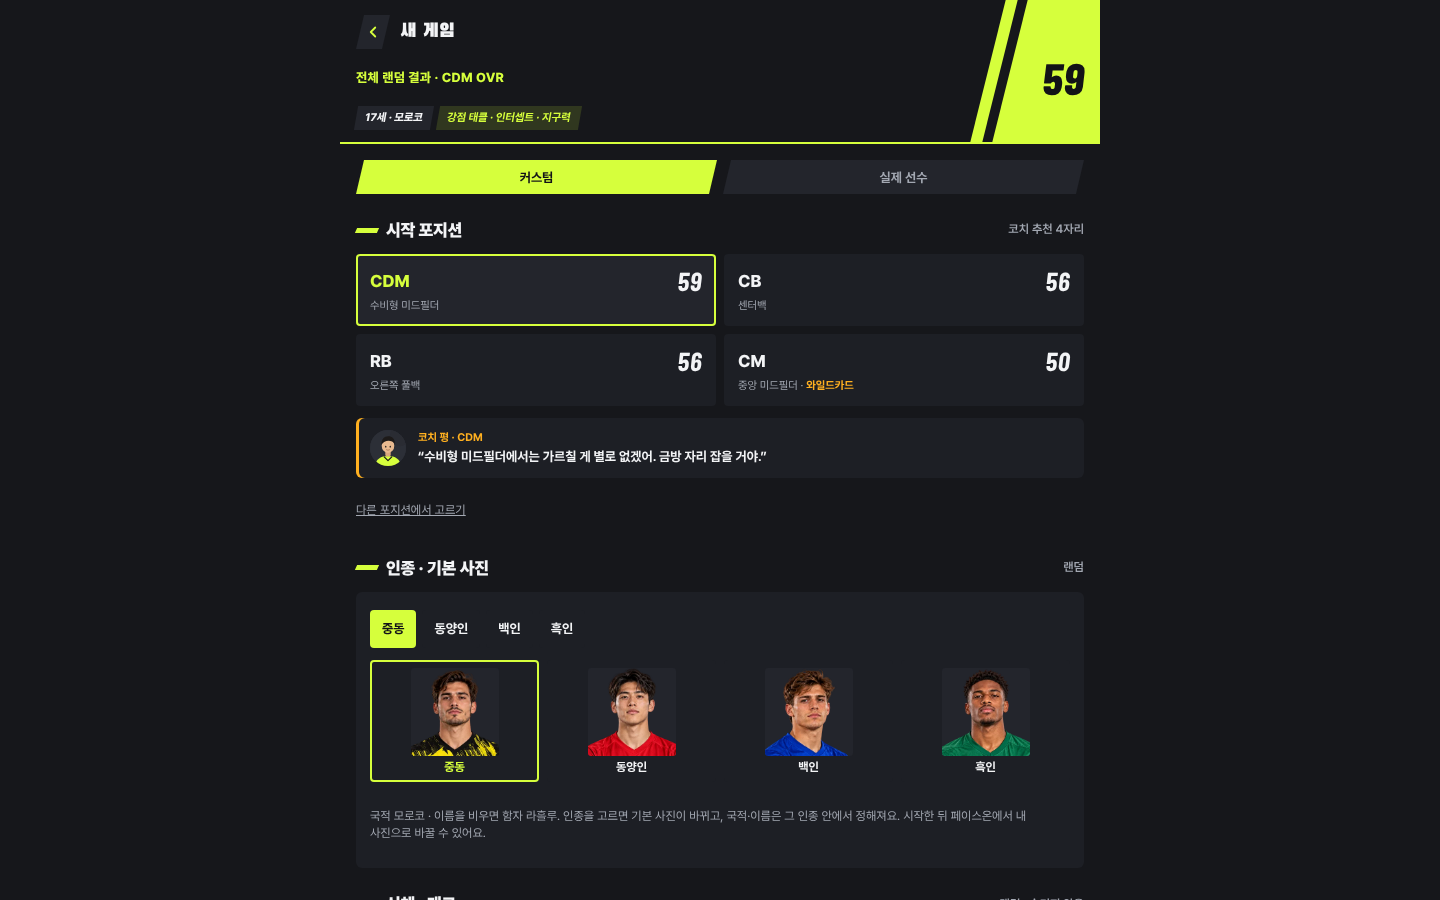
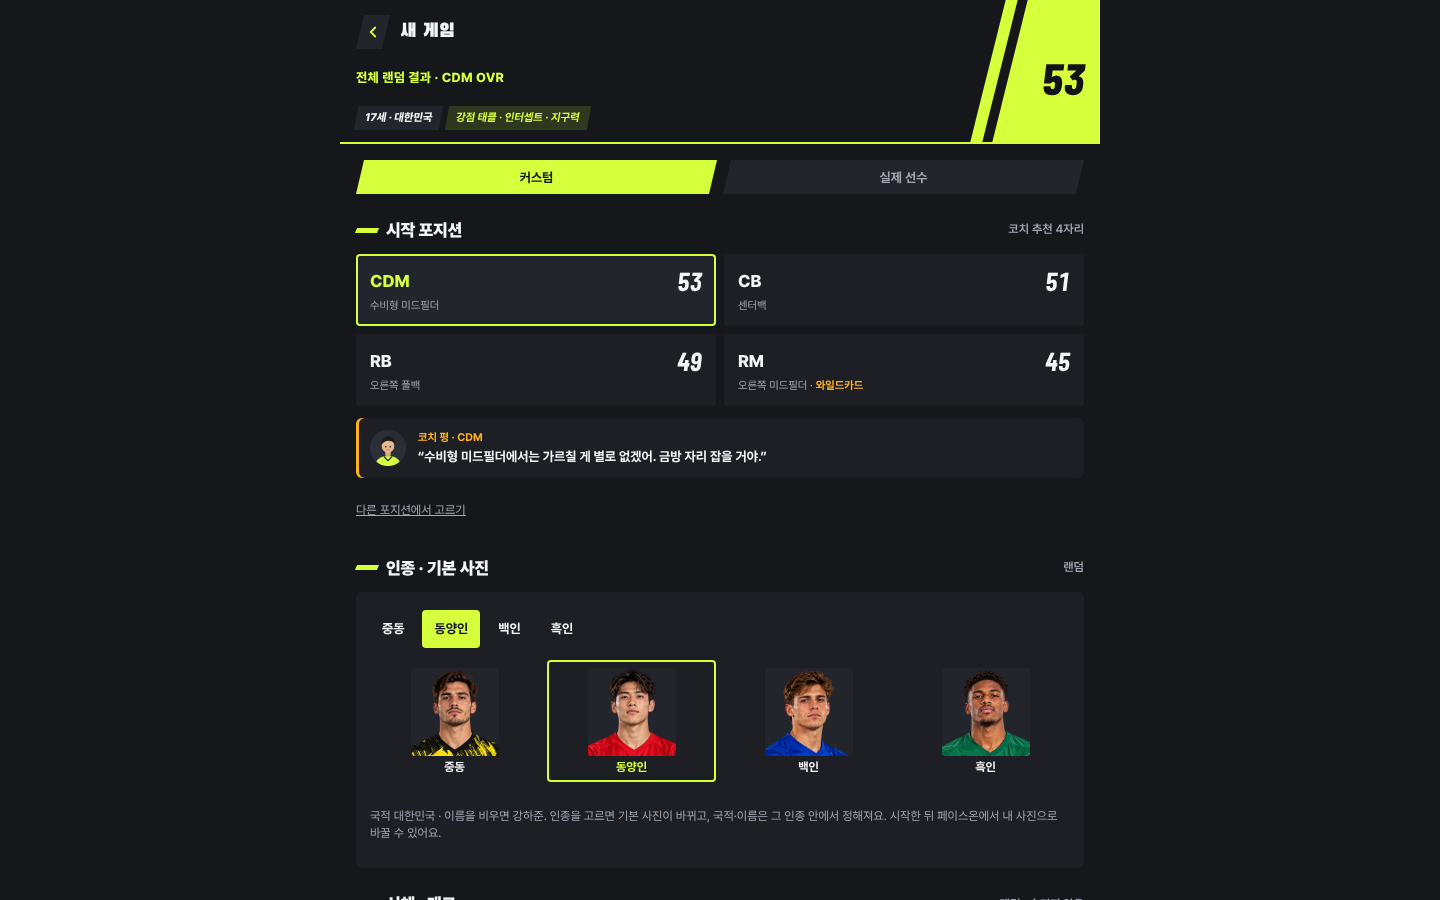
C.74d 랜덤은 커스텀 예산 안(사용자 00:41) · [이대로 시작] = 커스텀 rolled 시작(예전 랜덤과 같은 굴림)
Claude-Session: https://claude.ai/code/session_01JxvVPyQ11rXgiVVKZ8hKRc

diff --git a/src/ui/customRandom.ts b/src/ui/customRandom.ts
@@ -1,22 +1,22 @@
 // 커스텀 랜덤 (C.74d, 사용자 요청 2026-10-20): 시작 방식 [랜덤]을 커스텀 안으로 합친다.
 // [전체 랜덤] = 지금 랜덤 유망주 생성기(rollProspect · prospectExtras · rollIdentity)로 뽑은 결과 → [이대로 시작] / [편집하기] / [다시 돌리기].
-// [편집하기]와 [이 단계 랜덤]은 같은 생성기 결과를 커스텀 폼 값으로 옮긴다. 같은 key 면 늘 같은 결과
+// 결과는 늘 커스텀 예산 안(사용자 00:41). [편집하기]와 [이 단계 랜덤]은 같은 생성기 결과를 커스텀 폼 값으로 옮긴다. 같은 key 면 늘 같은 결과
 
 import { FIELD_ATTRIBUTES, type FieldAttribute, type FieldAttributes } from '../attributes';
-import { rollProspect } from '../aptitude';
+import { rollProspect, startCandidates, type StartCandidate } from '../aptitude';
 import { BALANCE } from '../config/balance';
-import { CUSTOM_HIDDEN_TAGS, customCap, customRaise, spentPoints } from '../custom';
-import { prospectExtras } from '../game';
+import { CUSTOM_HIDDEN_TAGS, customBudget, customCap, customRaise, spentPoints } from '../custom';
+import { prospectExtras, type CustomSpec } from '../game';
 import { PHOTO_OF, randomNameFor, rollIdentity, type FacePhoto, type Race } from '../identity';
 import { initialTeams } from '../league';
 import { attributeOvrWeight, type FieldPosition, type PlayablePosition } from '../positions';
 import { createRng, hashSeed } from '../rng';
 import { canAddTag, type TagPick } from '../tags';
-import { budgetOf, NATIONALITIES, weightRange, type CustomForm } from './customVM';
+import { budgetOf, customSpec, NATIONALITIES, weightRange, type CustomForm } from './customVM';
 
 const clamp = (v: number, lo: number, hi: number) => Math.min(hi, Math.max(lo, v));
 
-/** 랜덤 능력치 → 커스텀 범위 (기본값 이상 · 키 상한 이하). 포인트는 넘칠 수 있다 */
+/** 랜덤 능력치 → 커스텀 범위 (기본값 이상 · 키 상한 이하). 포인트는 fitToBudget 으로 맞춘다 */
 export function attrsToCustom(attrs: FieldAttributes, height: number): FieldAttributes {
   const C = BALANCE.custom;
   return Object.fromEntries(FIELD_ATTRIBUTES.map((a) => [a, clamp(Math.round(attrs[a]), C.base, Math.max(C.base, customCap(a, height)))])) as FieldAttributes;
@@ -75,21 +75,37 @@ function startOf(key: string, age: number): Pick<CustomForm, 'startKind' | 'star
 }
 
 /**
- * [편집하기]: 랜덤 결과(같은 key · 고른 포지션 · 고른 인종/사진)를 커스텀 폼으로. 능력치는 커스텀 범위로만 맞추고
- * 포인트는 그대로 둔다 (넘치면 능력치 단계에서 줄이거나 [포인트에 맞추기])
+ * 전체 랜덤 (C.74d): 유망주 생성기 결과를 **커스텀 예산 안으로**(사용자 00:41 "랜덤은 커스텀 예산을 넘지 않게") 맞춘다.
+ * 신체·태그는 기준 자리(roll.anchor) 기준이라 결과 화면에서 포지션을 바꿔도 능력치·몸·예산이 그대로다.
+ * 포지션 후보 4자리 + 코치 평은 맞춘 능력치와 숨은 적성으로 다시 뽑는다
  */
-export function prospectToCustom(key: string, position: PlayablePosition, race?: Race, photo?: FacePhoto): { form: CustomForm; name: string } {
-  const p = rollProspect(key);
-  const x = prospectExtras(key, position);
-  const body = bodyOf(key, position);
-  const { name, ...looks } = looksOf(key, race, photo);
+export function rollCustom(key: string, race?: Race, photo?: FacePhoto): { form: CustomForm; name: string; candidates: StartCandidate[] } {
+  const roll = rollProspect(key);
+  const pos = roll.anchor;
+  const body = bodyOf(key, pos);
+  const tags = customTags(prospectExtras(key, pos).tags);
   const age = BALANCE.custom.refAge;
+  const budget = customBudget(age, tags, body.weakFoot);
+  const attrs = fitToBudget(attrsToCustom(roll.attributes, body.height), pos as FieldPosition, budget, body.height);
+  const candidates = startCandidates(attrs, roll.aptitude, createRng(hashSeed([key, 'start-candidates'].join(':'))));
+  const { name, ...looks } = looksOf(key, race, photo);
   return {
-    name,
-    form: {
-      age, position, attrs: attrsToCustom(p.attributes, body.height), ...body, tags: customTags(x.tags), ...looks, sel: null, ...startOf(key, age),
-    },
+    name, candidates,
+    form: { age, position: candidates[0]?.pos ?? pos, attrs, ...body, tags, ...looks, sel: null, startKind: 'none', startClub: '', youthClub: 'random' },
   };
+}
+
+/** [이대로 시작]: 전체 랜덤 결과 그대로 커스텀으로 시작 (팀은 예전 랜덤처럼 리그 하위권 팀 유스, 잠재력·숨은 적성 = 결과 화면과 같은 굴림) */
+export function rolledSpec(key: string, position: PlayablePosition, name: string, race?: Race, photo?: FacePhoto): CustomSpec {
+  const r = rollCustom(key, race, photo);
+  const { start: _s, ...spec } = customSpec({ ...r.form, position }, name.trim() || r.name);
+  return { ...spec, rolled: true };
+}
+
+/** [편집하기]: 전체 랜덤 결과(고른 포지션 · 고른 인종/사진)를 커스텀 폼으로. 시작 소속은 랜덤(6단계에서 바꿈) */
+export function prospectToCustom(key: string, position: PlayablePosition, race?: Race, photo?: FacePhoto): { form: CustomForm; name: string } {
+  const r = rollCustom(key, race, photo);
+  return { name: r.name, form: { ...r.form, position, ...startOf(key, r.form.age) } };
 }
 
 /**

diff --git a/tests/c74d.test.ts b/tests/c74d.test.ts
@@ -6,7 +6,8 @@ import { BALANCE } from '../src/config/balance';
 import { customCap, validCustom } from '../src/custom';
 import { newGameVM } from '../src/ui/viewModels';
 import { budgetOf, customSpec, customVM, initialCustomForm, NATIONALITIES, type CustomForm } from '../src/ui/customVM';
-import { fitToBudget, prospectToCustom, randomStep } from '../src/ui/customRandom';
+import { fitToBudget, prospectToCustom, randomStep, rollCustom, rolledSpec } from '../src/ui/customRandom';
+import { rollProspect } from '../src/aptitude';
 import { customBody } from '../src/ui/views/custom';
 import { NEW_GAME_UI, newGameView } from '../src/ui/views/screens';
 import type { FieldPosition } from '../src/positions';
@@ -46,7 +47,9 @@ describe('새 게임 시작 방식 2개', () => {
     const { form: f } = prospectToCustom('c74d-over', 'ST');
     const vm = customVM(f, '');
     for (let st = 1; st <= 6; st++) expect(customBody(vm, st, '', '')).toContain(`data-act="cu-rand" data-v="${st}"`);
-    if (vm.over) expect(customBody(vm, 5, '', '')).toContain('data-act="cu-fit"');
+    expect(customBody(vm, 5, '', '')).not.toContain('data-act="cu-fit"');
+    const over = { ...f, attrs: Object.fromEntries(FIELD_ATTRIBUTES.map((a) => [a, Math.max(BALANCE.custom.base, customCap(a, f.height))])) as CustomForm['attrs'] };
+    expect(customBody(customVM(over, ''), 5, '', '')).toContain('data-act="cu-fit"');
   });
 });
 
@@ -61,21 +64,31 @@ describe('편집하기 = 랜덤 결과 → 커스텀 폼', () => {
     inRange(a.form);
   });
 
-  it('넘친 포인트는 [포인트에 맞추기]로 줄이면 커스텀으로 시작된다', () => {
-    let over = 0;
-    for (const s of ['c74d-1', 'c74d-2', 'c74d-3', 'c74d-4', 'c74d-5']) {
+  it('랜덤은 커스텀 예산을 넘지 않는다 (사용자 00:41) · 넘친 값은 [포인트에 맞추기]로 줄인다', () => {
+    for (const s of ['c74d-1', 'c74d-2', 'c74d-3', 'c74d-4', 'c74d-5', 'c74d-6']) {
       const { form: f, name } = prospectToCustom(s, 'ST');
-      if (customVM(f, name).over) over++;
-      const fit: CustomForm = { ...f, attrs: fitToBudget(f.attrs, f.position as FieldPosition, budgetOf(f), f.height) };
-      expect(validCustom(fit.attrs, budgetOf(fit), fit.height)).toBe(true);
-      const v = customVM(fit, name);
-      expect(v.over).toBe(false);
-      if (!v.start.ready) continue;
-      const g = newGame({ mode: 'custom', custom: customSpec(fit, name), seed: s, difficulty: 'normal' });
-      expect(g.player.age).toBe(17);
-      expect(g.player.name).toBe(name);
+      expect(validCustom(f.attrs, budgetOf(f), f.height)).toBe(true);
+      expect(customVM(f, name).over).toBe(false);
+      // 손으로 넘치게 만든 값 → 맞추기
+      const over: CustomForm = { ...f, attrs: Object.fromEntries(FIELD_ATTRIBUTES.map((a) => [a, Math.max(BALANCE.custom.base, customCap(a, f.height))])) as CustomForm['attrs'] };
+      expect(customVM(over, name).over).toBe(true);
+      const fit: CustomForm = { ...over, attrs: fitToBudget(over.attrs, over.position as FieldPosition, budgetOf(over), over.height) };
+      expect(customVM(fit, name).over).toBe(false);
     }
-    expect(over).toBeGreaterThan(0);
+  });
+
+  it('[이대로 시작] = 결과 그대로 커스텀 시작: 예산 안 · 잠재력·숨은 적성·팀은 예전 랜덤과 같은 굴림', () => {
+    for (const s of ['c74d-a', 'c74d-b', 'c74d-c']) {
+      const r = rollCustom(s);
+      const pos = r.candidates[0]!.pos;
+      const g = newGame({ mode: 'custom', custom: rolledSpec(s, pos, ''), seed: s, difficulty: 'normal' });
+      const old = newGame({ mode: 'prospect', position: pos, seed: s, difficulty: 'normal', rolled: true });
+      expect(g.player.attributes).toEqual(r.form.attrs);
+      expect([g.player.age, g.player.position, g.player.name]).toEqual([17, pos, r.name]);
+      expect(g.player.aptitude).toEqual(rollProspect(s).aptitude);
+      expect([g.player.potentialTier, g.player.teamId]).toEqual([old.player.potentialTier, old.player.teamId]);
+      expect(rollCustom(s)).toEqual(r);
+    }
   });
 });
 

diff --git a/src/ui/viewModels.ts b/src/ui/viewModels.ts
@@ -1,6 +1,7 @@
 // 뷰모델 (부록 H.2): 게임 상태 → 화면에 필요한 값. 화면 모듈(src/ui/views/)은 이 값만 받아 그린다.
 // 게임 로직(확률, 성장 계산)은 넣지 않고 기존 함수의 결과를 읽기만 한다
 
+import { rollCustom } from './customRandom';
 import { goalLabel, SOURCE_KO, TIER_KO, valueLabel } from '../seasonGoals';
 import { CHAPTER_IDS, CHAPTER_KO, CHAPTER_THEME_KO, currentChapter, pendingChapterReview, type ChapterId } from '../chapters';
 import { matchCompLabel, myMatchConditions, myShirt, prospectExtras, weekFreeDays } from '../game';
@@ -1576,7 +1577,9 @@ export function newGameVM(f: NewGameForm): import('./views/screens').NewGameVM {
   const pct = (x: number) => `${x >= 1 ? '+' : '−'}${Math.round(Math.abs(x - 1) * 100)}%`;
   const N = BALANCE.newGame;
   // 시작 후보 4자리 (pending 31 01:03 개정): 적합도 상위 3 + 와일드카드 1, 코치 한 줄 평. 적성 수치는 보여 주지 않는다
-  const prospect = f.mode === 'prospect' ? rollProspect(f.roll) : null;
+  // 전체 랜덤 결과 (C.74d): 유망주 생성기 결과를 커스텀 예산 안으로 맞춘 값 (customRandom.rollCustom)
+  const rc = f.mode === 'prospect' ? rollCustom(f.roll) : null;
+  const prospect = rc ? { attributes: rc.form.attrs, candidates: rc.candidates } : null;
   const ovrs = prospect ? allPositionOvrs(prospect.attributes) : null;
   const candidates = prospect ? prospect.candidates.map((c) => ({
     id: c.pos, ko: POSITION_NAMES_KO[c.pos], ovr: c.ovr, line: c.line, wild: c.kind === 'wild',
@@ -1618,10 +1621,10 @@ export function newGameVM(f: NewGameForm): import('./views/screens').NewGameVM {
       };
     })() : null,
     // 랜덤 유망주의 신체·장단점 (C.45, 숨기지 않음)
-    extras: prospect ? (() => {
-      const x = prospectExtras(f.roll, f.position as PlayablePosition);
+    extras: rc ? (() => {
+      const x = rc.form;
       return {
-        height: x.body.height, weight: x.body.weight, foot: FOOT_KO[x.body.foot], weakFoot: x.body.weakFoot,
+        height: x.height, weight: x.weight, foot: FOOT_KO[x.foot], weakFoot: x.weakFoot,
         traits: x.tags.map((t) => ({ ko: TAGS[t.id].ko, desc: TAGS[t.id].desc, kind: TAGS[t.id].kind === 'pro' ? 'pro' as const : 'con' as const, ...(!t.perm && TAGS[t.id].removeDesc ? { release: `${TAGS[t.id].removeDesc}이면 사라짐` } : {}) })),
       };
     })() : null,

diff --git a/src/ui/main.ts b/src/ui/main.ts
@@ -7,7 +7,7 @@ import { chapterReviewed } from '../chapters';
 import { buyWeakFoot, chooseInjuryReturn, choosePreset, matchCompLabel, myShirt, nextFixture, recommendPreset, setPresetAuto } from '../game';
 import { COMP_NAMES_KO, type CompId } from '../cups';
 import { budgetOf, customAct, customSpec, customVM, initialCustomForm } from './customVM';
-import { fitToBudget, prospectToCustom, randomStep } from './customRandom';
+import { fitToBudget, prospectToCustom, randomStep, rollCustom, rolledSpec } from './customRandom';
 import { autoCustom } from '../custom';
 import { HL } from '../highlights';
 import './design/tokens.css';
@@ -268,7 +268,7 @@ function syncProspectPick(): void {
   const key = prospectSeed();
   if (ui.form.posFor === key) return;
   ui.form.posFor = key;
-  ui.form.position = rollProspect(key).candidates[0]!.pos;
+  ui.form.position = rollCustom(key).candidates[0]!.pos;
   ui.form.others = false;
   ui.form.race = '';
   ui.form.photo = '';
@@ -1998,9 +1998,10 @@ app.addEventListener('click', (ev) => {
         const cv = customVM(f.cu, f.name);
         if (cv.over || !cv.start.ready) return;
       }
+      // 전체 랜덤 [이대로 시작] (C.74d): 커스텀 예산 안으로 맞춘 결과 그대로 커스텀 시작 (팀·잠재력·숨은 적성은 예전 랜덤과 같은 굴림)
       ui.game = f.mode === 'prospect'
-        ? newGame({ mode: 'prospect', name: f.name, position: f.position, seed: prospectSeed(), difficulty: f.difficulty, rolled: true, legends: f.legends === 'on',
-          ...(isRace(f.race) ? { race: f.race } : {}), ...(isFacePhoto(f.photo) ? { facePhoto: f.photo } : {}) })
+        ? newGame({ mode: 'custom', custom: rolledSpec(prospectSeed(), f.position, f.name, isRace(f.race) ? f.race : undefined, isFacePhoto(f.photo) ? f.photo : undefined),
+          seed: prospectSeed(), difficulty: f.difficulty, legends: f.legends === 'on' })
         : f.mode === 'custom'
           ? newGame({ mode: 'custom', custom: customSpec(f.cu, f.name), seed: prospectSeed(), difficulty: f.difficulty, legends: f.legends === 'on' })
           : newGame({ mode: 'real', playerId: f.realId, seed: f.seed, difficulty: f.difficulty, legends: f.legends === 'on' });

diff --git a/src/ui/views/screens.ts b/src/ui/views/screens.ts
@@ -177,7 +177,7 @@ function prospectBody(vm: NewGameVM, u: NewGameUI): string {
     ${startOptions(vm, true)}
     <div class="btn-col ng-rollbtns">${Button({ size: 'lg', block: true, iconRight: 'chevron-right', act: 'start', children: `이대로 시작 · ${vm.teamHint} 유스` })}
       <div class="btn-row even">${Button({ variant: 'secondary', block: true, icon: 'edit', act: 'ng-edit', children: '편집하기' })}${Button({ variant: 'ghost', block: true, icon: 'swap', act: 'form-reroll', children: '다시 돌리기' })}</div>
-      <p class="small muted">편집하기 = 이 값으로 커스텀 단계에 들어가요(커스텀 포인트 규칙, 넘치면 줄여야 시작). 숨은 재능·적성은 [이대로 시작]일 때만 이 결과 그대로예요.</p></div>`;
+      <p class="small muted">랜덤도 커스텀 배분 포인트 안에서 뽑아요. 편집하기 = 이 값으로 커스텀 단계에 들어가요. 숨은 재능·적성은 [이대로 시작]일 때만 이 결과 그대로예요.</p></div>`;
 }
 
 const GROUP_KO: [('fw' | 'mf' | 'df'), string][] = [['fw', '공격'], ['mf', '미드'], ['df', '수비']];

diff --git a/src/game.ts b/src/game.ts
@@ -340,6 +340,8 @@ export interface CustomSpec {
   facePhoto?: FacePhoto;
   /** 시작 소속 (C.45 10번). 없으면 기존처럼 랜덤 팀 */
   start?: StartChoice;
+  /** 전체 랜덤 [이대로 시작] (C.74d): 잠재력·숨은 적성·팀을 기준 자리 없이 굴린다 (랜덤 결과 화면의 포지션 후보와 같은 결과) */
+  rolled?: boolean;
 }
 
 /** 장단점이 정하는 시작 약발 (양발잡이 4, 약발 1) */
@@ -470,7 +472,7 @@ export function newGame(opts: NewGameOptions): GameState {
     const budget = customBudget(age, picks, c.body.weakFoot);
     if (!validCustom(c.attributes, budget, height)) throw new Error('커스텀 능력치가 포인트·상한을 넘었어요');
     // 잠재력·숨은 적성·팀은 랜덤 (숨은 적성은 커스텀에도 랜덤, pending 47 2)
-    const roll = rollProspect(worldSeed, c.position);
+    const roll = rollProspect(worldSeed, c.rolled ? undefined : c.position);
     const prng = roll.rng;
     const byRating = [...league.teams].sort((a, b) => b.rating - a.rating);
     const { min, max } = BALANCE.newGame.teamRankRange;

diff --git a/docs/game-design.md b/docs/game-design.md
@@ -5125,14 +5125,17 @@ pending 125 b(76 · 77-5 · 77-10). 브랜치 `claude/c74b-travel-records`. `PAT
 2. **[전체 랜덤]**(커스텀 1단계 맨 위, PC는 왼쪽 열 탭 아래): 지금 랜덤 유망주 생성기(`rollProspect` 능력치·숨은 재능·적성·포지션 후보, `prospectExtras` 신체·약발·태그, `rollIdentity` 인종·국적·이름·사진, C.73c 다인종)로 뽑은 **결과 화면**을 보여 준다. 결과 화면은 예전 랜덤 화면 그대로(후보 4자리 + 코치 한 줄 평 · 다른 포지션에서 고르기 · 인종·기본 사진 · 신체·태그 · 능력치 접힘 · 시작 옵션)이고 아래에 **[이대로 시작] [편집하기] [다시 돌리기]**. 시드를 적었으면 그 시드로(같은 시드 = 같은 결과), 비웠으면 새로 굴린다. [다시 돌리기] = 시드를 비우고 새로 굴림.
 3. **[편집하기]**: 결과(고른 포지션·고른 인종/사진 포함)를 커스텀 폼으로 옮기고 1단계부터 — 나이 17 · 포지션 · 신체 · 약발 · 국적·인종·사진 · 태그(커스텀에서 고를 수 있는 것만, 약발 태그는 약발 선택으로) · 능력치 · 시작 소속(15~18세 반반 유스 구단 1군 테스트 / 소속팀 없음). 이름 칸이 비었으면 결과 이름을 넣는다.
 4. **[이 단계 랜덤]**(6단계 모두 본문 오른쪽 위): 그 단계 값만 같은 생성기로 다시 뽑는다 — 1 기본(이름 · 나이 17 · 포지션 = 새 유망주 후보 1위) · 2 몸(키·몸무게·주발·약발, 키 상한 넘은 능력치는 상한으로) · 3 외모(인종·국적·사진, 도트 머리 자동) · 4 태그 · 5 능력치(그 포지션 기준 유망주 능력치를 **포인트에 맞춰**) · 6 시작 소속. key = 시드 + 단계 + 누른 횟수라 같은 시드·같은 순서면 같은 결과.
-5. **포인트 규칙과 안 맞을 때(결정)**: 지시 추천안대로. [이대로 시작] = 랜덤 그대로(`mode: 'prospect'`, 커스텀 포인트 규칙 밖, 예전 랜덤 시작과 완전히 같음 → 숨은 재능·적성·잠재력도 그 결과 그대로). [편집하기] = 커스텀 규칙: 능력치를 커스텀 범위(8 이상 · 키 상한 이하)로만 맞추고 포인트는 그대로 둬서, 넘치면 PointBar가 빨간 "nP 넘쳤어요"이고 [시작]이 잠긴다. 줄이는 수고를 덜려고 능력치 단계에 **[포인트에 맞추기 · nP 줄이기]**(넘쳤을 때만) — 그 포지션 OVR 에 덜 쓰이는(같으면 높은) 능력치부터 한 칸씩 내린다. 캡처한 두 시드에서 넘침 31P(예산 61P)·23P(예산 54P).
-   - 더 단순한 대안(편집 때 바로 포인트에 맞춰 버림)은 "그 값으로 편집"과 달라져 고르지 않았다. 편집하면 숨은 재능·적성은 커스텀 규칙(시작 때 시드로 정함)을 따른다 — 결과 화면 안내 문구에 적음.
+5. **포인트 규칙(사용자 00:41 "랜덤은 커스텀 예산(40 + 100P)을 넘지 않게")**: 전체 랜덤은 유망주 생성기 능력치를 커스텀 범위(8 이상 · 키 상한 이하)로 맞춘 뒤 **커스텀 예산 안으로** 줄인다(`fitToBudget`: 기준 자리 OVR 에 덜 쓰이는(같으면 높은) 능력치부터 한 칸씩). 신체·태그·약발은 기준 자리 기준이라 예산이 포지션과 무관하고, 포지션 후보 4자리 + 코치 평은 **맞춘 능력치 + 숨은 적성**으로 다시 뽑는다. 그래서 결과 화면 = 그대로 커스텀으로 시작 가능한 값.
+   - [이대로 시작] = `newGame({ mode: 'custom', custom: { …, rolled: true } })`: 시작 소속을 비워 예전 랜덤처럼 리그 하위권 팀 유스, `rolled`(새 선택 필드, 세이브에 안 남음)면 잠재력·숨은 적성·팀을 기준 자리 없이 굴려 **예전 랜덤 시작과 같은 굴림**(테스트로 확인: 잠재력·팀 같음, 적성 = 결과 화면 적성). 남은 포인트(보통 0~2P)는 커스텀처럼 성장 포인트로.
+   - [편집하기] = 같은 값으로 커스텀 단계(이미 예산 안). 편집하면 숨은 재능·적성은 커스텀 규칙(시작 포지션 기준 굴림) — 결과 화면 안내 문구에 적음.
+   - 능력치 단계 **[포인트에 맞추기 · nP 줄이기]**(넘쳤을 때만): 나이를 내리거나 태그를 바꿔 예산이 줄어 넘친 경우 한 번에 맞춘다.
+   - 옛 `mode: 'prospect'` newGame 길은 테스트·밸런스 스크립트용으로 그대로 둔다(화면에서는 안 씀).
 6. **같이 고친 것**: 커스텀 PointBar "기본" 칸이 C.49(100 → 58) 뒤에도 100으로 표시돼 태그 칸이 −42로 보이던 것 → `BALANCE.custom.points`(58) 표시. 수치·계산은 그대로(표시만).
-7. 세이브·밸런스·엔진 무수정: 시작은 기존 `newGame` prospect/custom 두 길 그대로. 새 파일 `src/ui/customRandom.ts`(`prospectToCustom` · `randomStep` · `fitToBudget`), `mode: 'prospect'` 는 이제 "전체 랜덤 결과 화면" 상태 이름(탭에는 커스텀으로 불이 들어옴), 시작하면 다음 새 게임은 커스텀으로.
+7. 세이브·밸런스·엔진 무수정: 시작은 기존 `newGame` custom 길(+ 선택 필드 `rolled`). 새 파일 `src/ui/customRandom.ts`(`rollCustom` · `rolledSpec` · `prospectToCustom` · `randomStep` · `fitToBudget`), `mode: 'prospect'` 는 이제 "전체 랜덤 결과 화면" 상태 이름(탭에는 커스텀으로 불이 들어옴), 시작하면 다음 새 게임은 커스텀으로.
 
-**검증**: typecheck · 테스트 79파일 · build 로컬 통과. 엔진·밸런스 무수정이라 balance·engine 생략(CI가 돎). 새 테스트 `tests/c74d.test.ts` 7개(탭 2개·[전체 랜덤]·[이 단계 랜덤] 버튼 · 결과 화면 후보 4·코치 평·3버튼 · 6단계 모두 단계 랜덤 · 편집 결정성·범위·17세·고른 포지션/인종 · 넘침 → 맞추기 → 커스텀 시작 · 단계 랜덤이 그 단계 값만 · 능력치 단계 랜덤 포인트 안).
+**검증**: typecheck · 테스트 78파일 713개 · build 로컬 통과. 엔진·밸런스 무수정이라 balance·engine 생략(CI가 돎). 새 테스트 `tests/c74d.test.ts` 8개(탭 2개·[전체 랜덤]·[이 단계 랜덤] 버튼 · 결과 화면 후보 4·코치 평·3버튼 · 6단계 모두 단계 랜덤 · 편집 결정성·범위·17세·고른 포지션/인종 · 랜덤 예산 안·넘친 값 맞추기 · [이대로 시작] 잠재력·적성·팀 = 예전 랜덤 굴림 · 단계 랜덤이 그 단계 값만 · 능력치 단계 랜덤 포인트 안).
 
-**캡처** `docs/design/c74d-check/`(`scripts/c74d-capture.mjs`, 실제 빌드): 폰 390×844 `1_커스텀_기본` · `2_전체랜덤_결과` · `3_결과_3버튼` · `5_능력치_넘침` · `6_포인트에맞춤` · `7_몸_이단계랜덤`, PC 1440×900 `PC_2_전체랜덤_결과` · `PC_5_능력치_넘침`, 가로 폰 844×390 `가로_3_결과_3버튼`, A 테마 `A_1_커스텀_기본` (10장, 페이지 오류 0 · 가로 넘침 0).
+**캡처** `docs/design/c74d-check/`(`scripts/c74d-capture.mjs`, 실제 빌드): 폰 390×844 `1_커스텀_기본` · `2_전체랜덤_결과` · `3_결과_3버튼` · `4_편집하기_1단계` · `5_능력치_예산안` · `7_몸_이단계랜덤`, PC 1440×900 `PC_2_전체랜덤_결과` · `PC_5_능력치_예산안`, 가로 폰 844×390 `가로_3_결과_3버튼`, A 테마 `A_1_커스텀_기본` (10장, 페이지 오류 0 · 가로 넘침 0).
 
 **디자인 없는 새 화면/패널 목록**: 새 화면 0개(결과 화면 = 디자인 130 랜덤 화면 재사용). **새 패널 1개** — ① [전체 랜덤] 줄 패널(제목·한 줄 설명·보조 버튼, 레전드 팩 줄 모양). 작은 변형 **3개** — ② 결과 화면 아래 3버튼 묶음(주 버튼 + [편집하기][다시 돌리기] 2열 + 안내 한 줄) ③ 단계 본문 오른쪽 위 [이 단계 랜덤] 고스트 버튼 ④ 능력치 단계 [포인트에 맞추기 · nP 줄이기] 보조 버튼(넘쳤을 때만).
 
